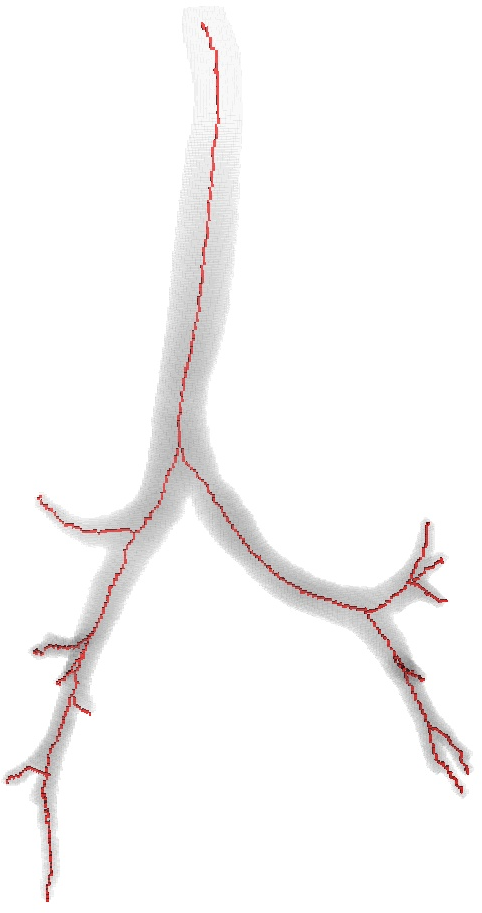
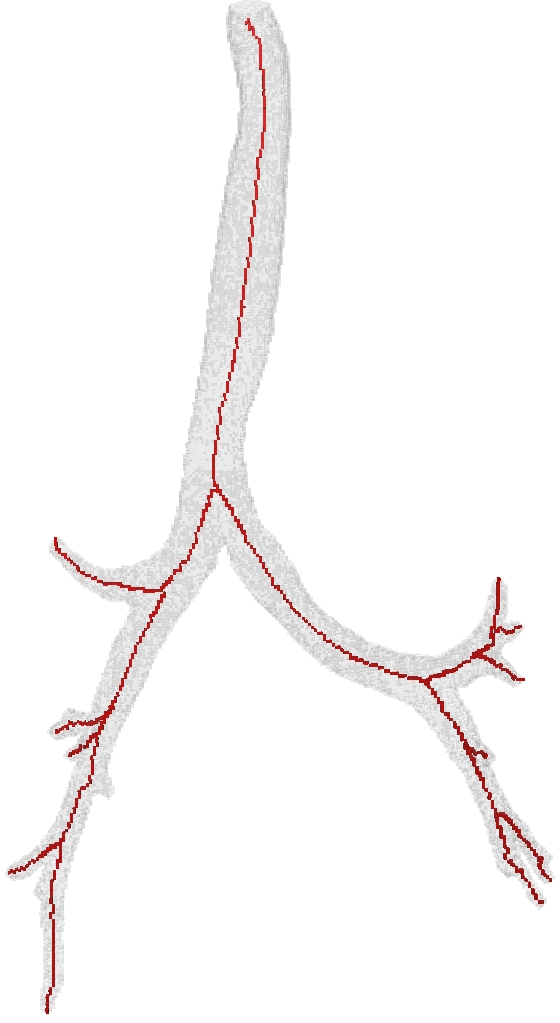
updated figs

Changed region(s): [[0.0, 0.0, 0.9959, 1.0]]

diff --git a/index.html b/index.html
@@ -26,7 +26,7 @@
 
 	
   </head>
-  <body class="homepage" onload="changeImage('RG3D.png')">
+  <body class="homepage" onload="changeImage('bronche2.png')">
     <a href="https://github.com/fgrelard/OrthogonalPlaneBasedTools"><img style="position: fixed; top: 0; left: 0; border: 0;z-index:100000" src="https://camo.githubusercontent.com/8b6b8ccc6da3aa5722903da7b58eb5ab1081adee/68747470733a2f2f73332e616d617a6f6e6177732e636f6d2f6769746875622f726962626f6e732f666f726b6d655f6c6566745f6f72616e67655f6666373630302e706e67" alt="Fork me on GitHub" data-canonical-src="https://s3.amazonaws.com/github/ribbons/forkme_left_orange_ff7600.png"></a>
 	<div id="page-wrapper">
 
@@ -37,7 +37,7 @@
 		  <!-- Logo -->
 		  <div id="logo">
 			<h2>Geometrical analysis of</h2>
-			<h1><a href="index.html"><span style="display:none;">Geometrical analysis of</span>tubular organs</a></h1>
+			<h1><span style="display:none;">Geometrical analysis of</span>tubular organs</h1>
 		  </div>
 		  <p class="contacts"> Bordeaux University <span class="emph">&gt;</span> LaBRI
           
@@ -83,7 +83,7 @@
 
               <div class="dropdown">
                 <button class="btn btn-default dropdown-toggle" type="button" id="dropdownMenu1" data-toggle="dropdown" aria-haspopup="true" aria-expanded="true">
-                  Airway #3
+                  Airway #2
                   <span class="caret"></span>
                 </button>
                 <ul class="dropdown-menu" aria-labelledby="dropdownMenu1">

diff --git a/src/geometry/CurveProcessor.h b/src/geometry/CurveProcessor.h
@@ -113,7 +113,7 @@ Container CurveProcessor<Container>::endPoints() {
         if (neighbors.size() <= 1)
             endPoints.insert(p);
 
-            //Is it in same quadrant: case connectivity != 26
+        //Is it in same quadrant: case connectivity != 26
         else {
             RealVector previous;
             bool isEndPoint = true;
@@ -268,8 +268,8 @@ fillHoles(const Container &setVolume) {
     objectImage.writeComponents(inserterCC);
     sort(skeletonCC.begin(), skeletonCC.end(), [&](const ObjectType &one,
                                                    const ObjectType &two) {
-        return one.size() > two.size();
-    });
+             return one.size() > two.size();
+         });
     Container myOneCCCurve = myCurve;
 
     bool shouldStop = false;
@@ -318,6 +318,17 @@ fillHolesNotInSet(const Container &set, const Container &setVolume) {
         if (!vPair.isUndefined()) {
             Point first = vPair.first();
             Point second = vPair.second();
+
+            AStarAlgorithm<Point, Container> linkAstar(first, second, setVolume);
+            std::vector<Point> linkA = linkAstar.linkPoints();
+
+            BresenhamAlgorithm<Point> linkBresenham(first, second);
+            std::vector<Point> linkB = linkBresenham.linkPoints();
+            if (linkB.size() * 5 < linkA.size())
+                vPair = ConnectedComponentMerger<Space>(skeletonCC, graph);
+
+            first = vPair.first();
+            second = vPair.second();
 
             RealVector dirFirst = (second - first).getNormalized();
             RealVector dirSecond = (first - second).getNormalized();
